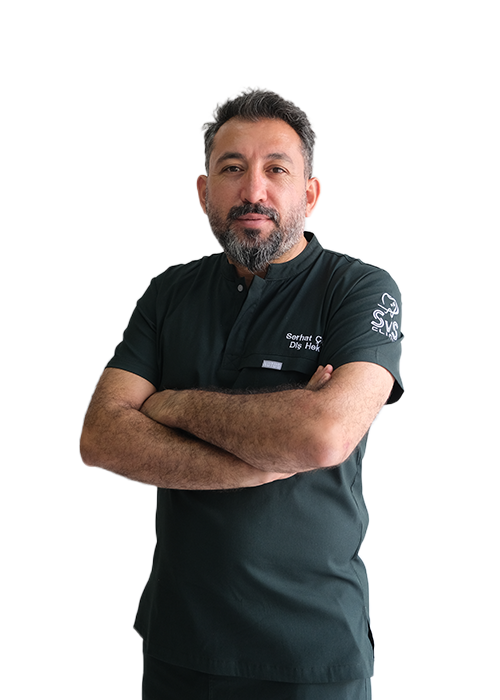
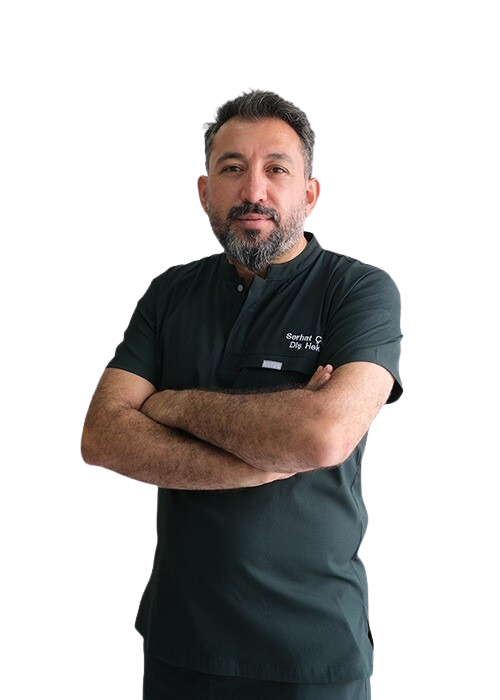
updating home starting on footer

diff --git a/src/components/Footer.tsx b/src/components/Footer.tsx
@@ -1,5 +1,5 @@
 import React from 'react'
-import { FaInstagram, FaFacebookF, FaYoutube } from 'react-icons/fa'
+import { FaInstagram, FaFacebookF, FaLinkedinIn } from 'react-icons/fa'
 import { AppLink } from '@/components/Link'
 import Link from 'next/link'
 import { Logo } from '@/components/Logo/Logo'
@@ -11,6 +11,7 @@ export async function Footer() {
 
   return (
     <footer className="relative overflow-hidden font-body text-white bg-gradient-to-t from-brand-dark to-transparent">
+      {/* call to action */}
       <div className="bg-brand-primary text-brand-dark py-10 px-6 md:px-20 mx-4 md:mx-12 lg:mx-26 2xl:mx-52 relative z-10">
         <div className=" max-w-screen-xl mx-auto flex flex-col md:flex-row justify-between items-center gap-6">
           <div className="text-center md:text-left md:max-w-md max-w-sm">
@@ -28,19 +29,20 @@ export async function Footer() {
         </div>
       </div>
 
+      {/* Main Footer */}
       <div className="py-12 px-6 md:px-20 relative z-10">
         <div className="max-w-screen-xl mx-auto grid grid-cols-1 md:grid-cols-4 gap-10">
+          {/* Logo and Social Links */}
           <div>
             <div className="mb-4">
               <Logo className="h-auto mb-2" />
             </div>
             <p className="text-sm text-gray-300 mb-4">
-              We Are Committed To Delivering Exceptional Healthcare With Compassion, Expertise, And
-              Innovation. Our Dedicated...
+              we are committed to delivering exceptional healthcare with compassion, expertise, and innovation. Our dedicated.
             </p>
             <div className="flex space-x-3 mt-4">
               <a
-                href="https://instagram.com"
+                href="https://www.instagram.com/primedentada/"
                 target="_blank"
                 rel="noopener noreferrer"
                 className="bg-brand-background rounded-full p-3 flex items-center justify-center hover:bg-brand-primary  transition"
@@ -48,7 +50,7 @@ export async function Footer() {
                 <FaInstagram size={18} className="text-white hover:text-brand-background" />
               </a>
               <a
-                href="https://facebook.com"
+                href="https://www.facebook.com/profile.php?id=61577891274230"
                 target="_blank"
                 rel="noopener noreferrer"
                 className="bg-brand-background rounded-full p-3 flex items-center justify-center hover:bg-brand-primary  transition"
@@ -56,16 +58,17 @@ export async function Footer() {
                 <FaFacebookF size={18} className="text-white hover:text-brand-background" />
               </a>
               <a
-                href="https://youtube.com"
+                href="https://linkedin.com/"
                 target="_blank"
                 rel="noopener noreferrer"
                 className="bg-brand-background rounded-full p-3 flex items-center justify-center hover:bg-brand-primary  transition"
               >
-                <FaYoutube size={18} className="text-white hover:text-brand-background" />
+                <FaLinkedinIn size={18} className="text-white hover:text-brand-background" />
               </a>
             </div>
           </div>
-
+          
+          {/* Quick Links */}
           <div>
             <h3 className="font-bold mb-3 font-heading">Our Pages</h3>
             <nav className="flex flex-col space-y-2 text-sm text-brand-white hover:text-brand-primary">
@@ -76,7 +79,7 @@ export async function Footer() {
               ))}
             </nav>
           </div>
-
+          {/* Services */}
           <div>
             <h3 className="font-bold mb-3 font-heading">Services</h3>
             <ul className="space-y-2 text-sm text-brand-white">
@@ -85,24 +88,24 @@ export async function Footer() {
               ))}
             </ul>
           </div>
-
+          {/* Contact Information */}
           <div>
             <h3 className="font-bold mb-3 font-heading ">Contact Us </h3>
             <ul className="space-y-2 text-sm text">
               <li>
                 <strong>Address</strong>
                 <br />
-                1901 Thornridge Cir. Shiloh
+                Selçuk Blv No:14, Kuşadası, Turkey
               </li>
               <li>
                 <strong>Phone Number</strong>
                 <br />
-                013 354 213 - 92132
+                0549 681 54 13
               </li>
               <li>
                 <strong>Email Address</strong>
                 <br />
-                info123@gmail.com
+                info@primedentada.com
               </li>
             </ul>
           </div>
@@ -116,10 +119,10 @@ export async function Footer() {
             Reserved.
           </p>
           <div className="flex space-x-4 mt-2 md:mt-0">
-            <a href="#" className="text-brand-white hover:text-gray-400">
+            <a href="#" className="text-brand-white hover:text-brand-primary">
               Terms & Conditions
             </a>
-            <a href="#" className="text-brand-white hover:text-gray-400">
+            <a href="#" className="text-brand-white hover:text-brand-primary">
               Privacy policy
             </a>
           </div>

diff --git a/src/app/page.tsx b/src/app/page.tsx
@@ -22,7 +22,7 @@ export default function Page() {
 
           {/* Hero Section (75%) */}
           <section className="flex-1 basis-2/4 flex flex-col justify-center">
-            <div className="flex flex-col md:flex-row max-w-screen-xl mx-auto w-full h-full px-6 gap-8 items-center">
+            <div className="flex flex-col md:flex-row max-w-screen-xl mx-auto w-full h-full gap-8 items-center">
               {/* Left: RichText & CTA */}
               <div className="flex-1 text-center md:text-left md:max-w-md z-10 flex flex-col justify-center items-center md:items-start">
                   <h1 className="text-6xl font-bold font-heading text-brand-primary mb-4">
@@ -39,11 +39,11 @@ export default function Page() {
               {/* Right: Hero Image */}
               <div className="flex-1 flex justify-end items-end">
                 <Image
-                  src="/hero-doctor-image.png"
+                  src="/dtserhatcelik.png"
                   alt="hero"
                   width={400}
                   height={600}
-                  className="object-contain w-full max-h-[70vh]"
+                  className="object-contain w-full max-h-[75vh]"
                 />
               </div>
             </div>
@@ -74,7 +74,7 @@ export default function Page() {
 
       {/* Services Section */}
       <div className="max-w-screen-xl mx-auto px-6 text-center my-24">
-        <h3 className="text-lg text-brand-primary mb-2"># What We Do Best</h3>
+        <p className="text-lg text-brand-primary mb-4"># What We Do Best</p>
         <h2 className="text-4xl font-heading text-brand-primary font-bold mb-10">Top Dental Treatments, Delivered with Precision</h2>
 
         <div className="grid grid-cols-1 md:grid-cols-4 gap-6 mb-8">
@@ -174,11 +174,11 @@ export default function Page() {
             </p>
           </div>
           <TestimonialSlider testimonials={[
-            { name: 'John Doe', role: 'Patient', quote: 'Amazing experience! The staff was friendly and the treatment was top-notch.', star: 5 },
-            { name: 'Jane Smith', role: 'Patient', quote: 'Highly recommend! The clinic is clean and the doctors are very professional.' , star: 5 },
-            { name: 'Alice Johnson', role: 'Patient', quote: 'I had a great experience at Primedent. The team was very attentive and made me feel comfortable.', star: 5 },
-            { name: ' ', role: 'Patient', quote: ' I was nervous about my dental work, but the team at Primedent made it a breeze. Highly satisfied!' , star: 5 },
-            { name: ' ', role: 'Patient', quote: ' I love my new smile! The results exceeded my expectations and the care was exceptional.', star: 5 },
+            { name: 'Darren Mears', role: 'Patient', quote: "Perfect couldn't fault them on anything very friendly. Everything done in a few days and the results are amazing I would definitely recommend them to anyone", star: 5 },
+            { name: 'Jade Dean', role: 'Patient', quote: "The service was very professional from the start to the end, all the arrangements were made absolutely excellent. The Dentist and dental nurses were very friendly and their work was excellent. I can't believe how good my teeth look and I have no hesitation in recommending them whoheartedly." , star: 5 },
+            { name: 'Galya Valentinova', role: 'Patient', quote: "Absolutely number 1 place to do Hollywood smile! From 1st day we contacted them, they were Absolutely perfect with us! They organised everything very quick and good! All doctors and people who worked there was Absolutely spot on! 100 percent helpful and made perfect job!", star: 5 },
+            { name: 'Elizabeth Oyenike Babalola', role: 'Patient', quote: "Wow at my new teeth!!! It all began when I was looking to have my teeth done for medical reason (and was a fortune to do in the UK) and amongst many clinics in Turkey. Overall the care I received here was super amazing, Their review on Trustpilot stood out. The best dentist I have ever met, patient with me all the way and kept tweaking until I was satisfied. I have a new smile and I’m super proud…" , star: 5 },
+            { name: 'Bjorn van der Louw', role: 'Patient', quote: "Great experience. Lovely People. Help you a lot with everything. Its clean. Its great. When you want do your teeths. Then i say yes go to them. Greatfull.", star: 5 },
           ]} />
         </div>
       </section>

diff --git a/src/components/ui/button.tsx b/src/components/ui/button.tsx
@@ -22,7 +22,7 @@ const buttonVariants = cva(
         default: 'bg-brand-primary text-brand-background hover:bg-brand-light',
         destructive: 'bg-destructive text-destructive-foreground hover:bg-destructive/90',
         ghost: 'hover:bg-card hover:text-accent-foreground',
-        link: 'text-brand-white items-start justify-start underline-offset-4 hover:underline',
+        link: 'text-brand-primary items-start justify-start underline-offset-4 text-brand-primary hover:underline hover:text-brand-white text-lg font-heading',
         outline: 'border border-border bg-background hover:bg-card hover:text-accent-foreground',
         secondary: 'bg-secondary text-secondary-foreground hover:bg-secondary/80',
       },

diff --git a/src/components/Header/Nav.tsx b/src/components/Header/Nav.tsx
@@ -10,7 +10,7 @@ interface Props {
 
 export const HeaderNav: React.FC<Props> = ({ navItems }) => {
   return (
-    <nav className="flex flex-col md:flex-row gap-3 space-y-8 md:space-y-0 items-center text-xl md:text-base">
+    <nav className="flex flex-col md:flex-row gap-3 space-y-8 md:space-y-0 items-center">
       {navItems.map(({ link }, i) => (
         <AppLink key={i} href={link.url} variant="link">
           {link.label}

diff --git a/src/app/layout.tsx b/src/app/layout.tsx
@@ -49,7 +49,9 @@ export default function RootLayout({ children }: { children: React.ReactNode }) 
       <body className='bg-background text-foreground antialiased min-h-screen flex flex-col'>
         {/* <Providers> */}
           <Header />
+          <main className="flex-1 font-body text-foreground">
           {children}
+          </main>
           <Footer />
         {/* </Providers> */}
       </body>

diff --git a/src/components/Header/HeaderClient.tsx b/src/components/Header/HeaderClient.tsx
@@ -24,7 +24,7 @@ export const HeaderClient: React.FC = () => {
           <Logo loading="eager" priority="high" className="invert dark:invert-0" />
         </Link>
         {/* Desktop Nav */}
-        <div className="hidden md:block">
+        <div className="hidden md:block ">
           <HeaderNav navItems={NAV_LINKS} />
         </div>
 
